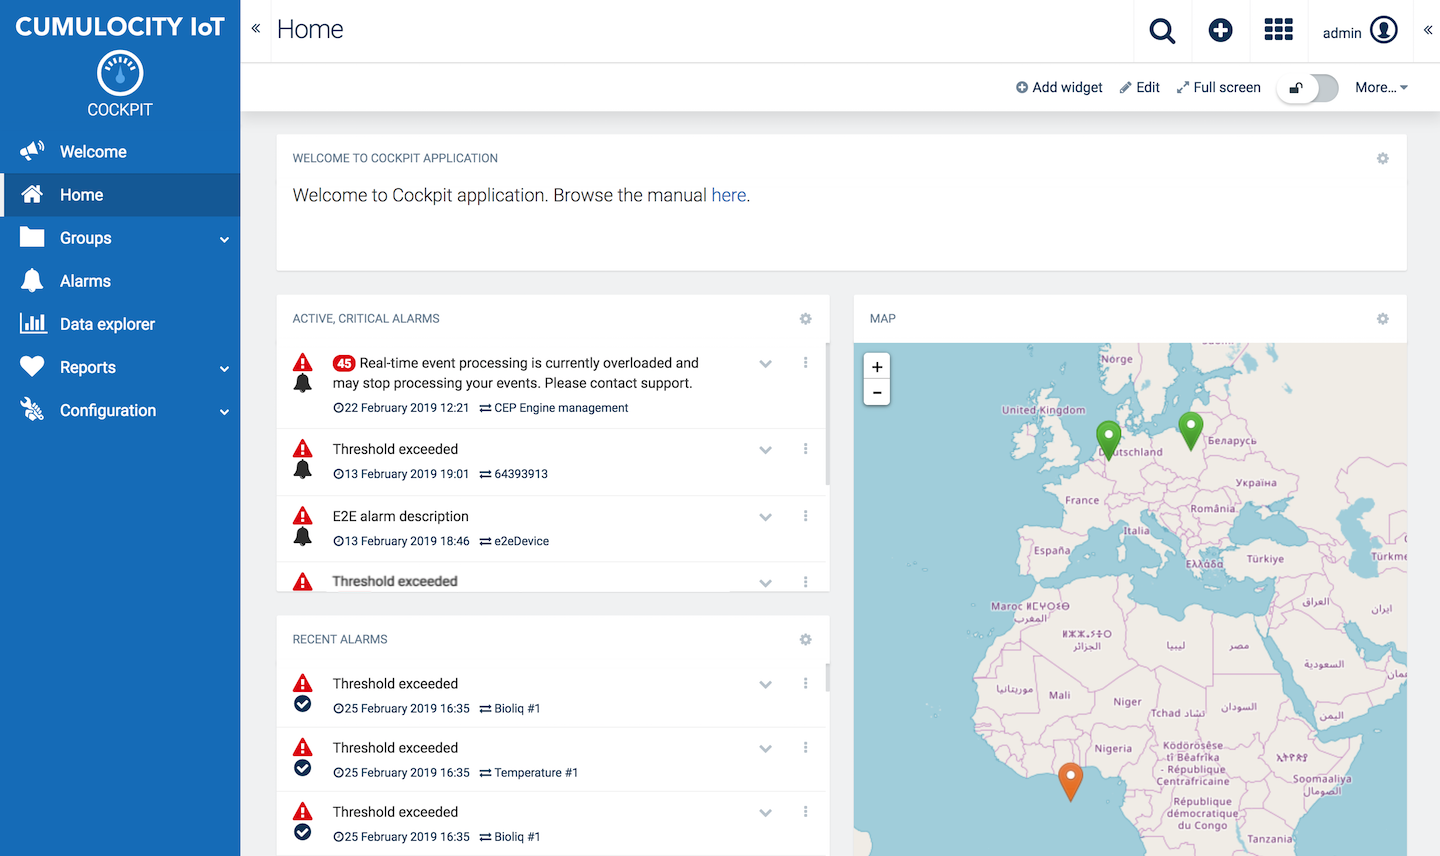
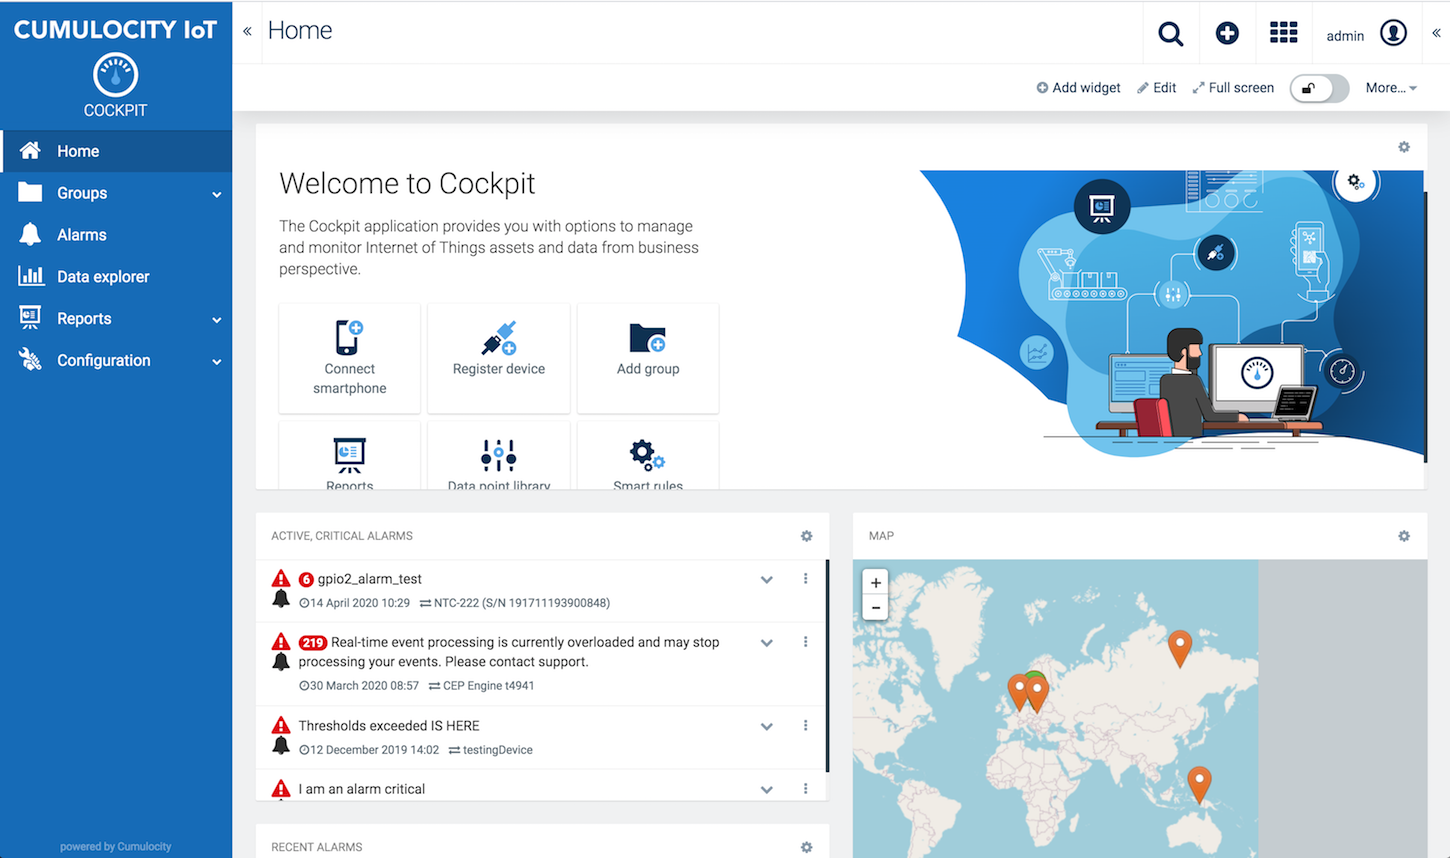
Further updates on the 10.6.6 release notes

diff --git a/content/release-notes/10-6-6-bundle/10-6-6-whatsnew.md b/content/release-notes/10-6-6-bundle/10-6-6-whatsnew.md
@@ -5,81 +5,55 @@ layout: redirect
 ---
 
 
-Cockpit	The welcome widget has been modified. The new welcome widget comes in two versions, which show different messages and quick links, based on the tenant type of the user (regular or trial tenant).	MTM-30226
+### Device Management
 
-New smartphone app and wizard
+#### Device certificates
 
-Cockpit	A new wizard is available to connect a smartphone to the platform. In the welcome widget of the Cockpit application a new quick-link card is shown: Connect smartphone. The new process is aligned with the new version of the "Cumulocity IoT Sensor App" and will not work with the old application that might be already installed on your smartphone.	MTM-30234
+[MTM-27299] Cumulocity IoT allows devices to connect via MQTT protocol using a X.509 client certificate for authentication. Each tenant individually defines whom it trusts by uploading the base CA certificate.
 
-UI	Russian is now available as a standard language.	MTM-31746
+Cumulocity IoT supports two ways to register devices which will be able to connect using certificates, auto registration or bulk registration.
 
-Sigfox	Sigfox device registration form: Hex string validation added to ID and PAC input fields.	MTM-30217
-Sigfox	On device registration, only active contracts with free slots will now be shown.	MTM-30220
-Sigfox	If a device type is generated and its name exceeds 100 characters it will be truncated to fit the 100 characters name length limit on the Sigfox platform.	MTM-29827
+A device which is connected by certificates can receive a token which can later be used to authenticate HTTP requests. 
 
-### Administration
+For details, how to manage trusted certificates through the UI, see [Device Management > Managing device data > Managing trusted certificates](/users-guide/device-management#trusted-certificates) in the User guide.
 
-[MTM-29160] It is now possible to configure sms77 as SMS provider in **Settings** > **Customization** in the  Administration application.  
+![Device credentials](/images/users-guide/device-management/devmgmt-device-credentials.png)
 
-For details, see [Administration > Changing settings](/users-guide/administration#changing-settings) in the User guide.
-
-![SMS provider settings](/images/release-notes/sms-provider-sms77.png) 
+For information on connecting devices using certificates refer to [Device integration using MQTT > Device certificates](device-sdk/mqtt#device-certificates) in the Device SDK guide. 
 
 
-### Enterprise Tenant
+### Cockpit	
 
-[MTM-29923] A cookie banner has been added to the Cumulocity IoT platform. The login page will now contain information about cookies and their purpose.
+[MTM-30226] The welcome widget has been modified. The new welcome widget comes in two versions, which show different messages and quick links, based on the tenant type of the user (regular or trial tenant).
 
-The cookie banner can be configured via the application options or via UI from the Branding page in the Administration application. 
+![Welcome widget](/images/release-notes/welcome-widget.png)
 
-For details, see [Enterprise Tenant > Customization](/users-guide/enterprise-edition#customization) in the User guide.
+For details, see [Cockpit > Overview](/users-guide/cockpit#overview) in the User guide.
 
 
-### Cockpit
+### New smartphone app and wizard
 
-[MTM-29400] To improve transparency, the display of the timestamp in data point graphs or tables when aggregation is activated has been modified: 
+[MTM-30234] A new wizard is available to connect a smartphone to the platform. In the welcome widget of the Cockpit application a new quick-link card **Connect smartphone** is shown. 
 
-* If daily aggregation is selected, the time indication will no longer be shown.
-* If hourly aggregation is selected, the minute and second indication will no longer be shown.
-* If minutely aggregation is selected, the second indication will no longer be shown.
 
-For details, see [Cockpit > Data explorer](/users-guide/cockpit#data-explorer) in the User guide.
- 
+### Device integration: Cumulocity IoT NetComm Agent
 
-### OPC UA
+A new Cumulocity IoT NetComm agent is available which 
 
-The following improvements have been implemented in the OPC UA gateway since 10.5.7.
+### Sigfox
 
-For details, see [Optional services > OPC UA](/users-guide/optional-services#opc-ua) in the User guide.  
+The following improvements have been implemented in the Sigfox agent since 10.6.0.
 
-#### Extended subscription parameters 
+For details, see [Optional services > Sigfox](/users-guide/optional-services#sigfox) in the User guide.  
 
-[MTM-29065] The subscription parameters have been extended by: 
+* [MTM-30217] Sigfox device registration form: Hex string validation has been added to the ID and PAC input fields.
+* [MTM-30220] On device registration, only active contracts with free slots will now be shown.
+* [MTM-29827] If a device type is generated and its name exceeds 100 characters it will be truncated to fit the 100 characters name length limit on the Sigfox platform.	
 
-* "queueSize" - number, queueSize > 0, no max value
-* "dataChangeTrigger" - string, radio-button with possible values: Status, StatusValue, StatusValueTimestamp
-* "discardOldest" - boolean, radio-buttons with possible labels: Discard oldest, Discard newest - where discard newest will just turn discard oldest into false. Discard oldest is the default.
+### UI
 
-#### Easier analysis of issues during the auto-apply procedure 
+[MTM-31746] Russian is now available as a standard language.	
 
-[MTM-29837] The following improvements have been added:
 
-* "c8y&#95;ua&#95;DeviceTypeApplied" event is triggered when a device type is applied to a node server.<br>
-* "c8y&#95;ua&#95;DeviceTypeUnapplied" event is triggered when a device type is removed from a node server.<br>
-* "c8y&#95;ua_command&#95;GetDeviceTypeApplicationState" operation has been added to query the state of device type applications on servers.<br>
-* "c8y&#95;ua_command&#95;TestDeviceTypeMatching" operation has been added to tell if a node (root node) matches and will be applied to a device type or not.
 
-#### Notification buffer size configuration 
-
-[MTM-30338] Notification buffer size is configured in OPC UA client which defines how many monitored item values should be buffered to receive subscription notification data from OPC UA server. Default is 100. Setting this too low could cause buffer overflow error on the client. Setting this too high wastes memory of the client. In order to decide what is a good number, following configurations should be taken into account:
-
-* Subscription reporting rate (aka publish interval)
-* Sampling rate of monitored items
- 
-Basically, the more data you got in one notification package from the server, the higher number should be set.
-
-#### Performance improvements 
-
-* [MTM-29868] Performance has been improved when using read/write operations. 
-* [MTM-30343] Enhanced performance for measurements when there is a lot of data. 
 

diff --git a/content/release-notes/10-6-6-bundle/10-6-6-migration.md b/content/release-notes/10-6-6-bundle/10-6-6-migration.md
@@ -4,3 +4,19 @@ title: Migration notes
 layout: redirect
 ---
 
+### Removal of DELETE method for audit logs
+
+As announced in the [Migration notes for release 10.5.0](https://cumulocity.com/guides/10.5.0/release-notes/10-5-0/#10-5-0-migration), deletion of audit log entries by administrators is no longer permitted. This method is deprecated and has been removed. All DELETE requests to the audit API will return the error "405 Method not allowed".
+
+Note that retention rules still apply to audit logs and will delete audit log records older than the specified retention time, see also [Auditing > Audit record collection](/reference/auditing/#audit-record-collection) in the Reference guide. 
+
+### End of Java 7 support for the Microservice SDK
+
+As announced in the [Migration notes for release 10.5.7](/release-notes/10-5-7/#10-5-7-migration), the Microservice SDK is now based on Spring Boot 2.x. In case you are still developing with Java 7 you will need to migrate your application to Java 8 if you want to take advantage of the latest Microservice SDK version. If you have to stay with Java 7 or cannot migrate to Spring Boot 2.x you can still use the Microservice SDK in version <= 10.5.7.
+
+For details on the Microservice SDK for Java, see [Microservice SDK for Java](/microservice-sdk/java/) in the Microservice SDK guide.
+
+
+### Disabled TLS 1.0 support on all public cloud instances
+
+As announced in the [Migration notes for release 10.5.7](/release-notes/10-5-7/#10-5-7-migration), Encryption based on Transport Layer Security v1.0 has been be disabled on all public Cumulocity IoT instances. As all modern browsers do already support by default more recent versions of TLS we do not expect limitations for users. Devices connecting to Cumulocity IoT might need to be updated.

diff --git a/content/release-notes/10-6-6-bundle/10-6-6-documentation.md b/content/release-notes/10-6-6-bundle/10-6-6-documentation.md
@@ -1,0 +1,25 @@
+---
+weight: 21
+title: Documentation changes
+layout: redirect
+---
+
+In addition to all enhancements or changes related to the improvements and fixes of the 10.6.6 release, the following improvements or modifications have been made in the area of documentation.
+
+### Device integration tutorials
+
+A new version of the NetComm router device integration documentation has been added to the [Device integration tutorials](/device-tutorials/tutorials-introduction). This new tutorial describes how to set up and configure the Casa Systems (NetComm) routers of the NTC-220 series using the Cumulocity IoT NetComm Agent package, see [Casa Systems (Netcomm) router](/device-tutorials/netcomm-router/).
+
+### Installation and operations guides
+
+In addition to the Installation & Operations guides already provided for previous versions, the following new guides are now available through the [Software AG Empower Portal](https://documentation.softwareag.com/):
+
+* **Connectivity** - Installation & operations guide
+* **DataHub** - Installation & operations guide
+* **OPC UA** - Installation & operations guide
+* **Sigfox** microservice - Installation & operations guide
+
+Moreover, a new document **Operations release notes** is provided which lists all improvement or fixes related to the installation or operation of the Cumulocity IoT platform.
+
+Note, that access to these documents on the Empower Portal requires credentials.
+

diff --git a/content/users-guide/cockpit-bundle/overview.md b/content/users-guide/cockpit-bundle/overview.md
@@ -65,7 +65,7 @@ If you want to learn more about general aspects of the Cumulocity IoT platform a
 
 The Home screen of the Cockpit application is a dashboard which shows data for the general tenant.
 
-![image alt text](/images/users-guide/cockpit/cockpit-home-screen.png)
+![Home dashboard](/images/users-guide/cockpit/cockpit-home-screen.png)
 
 The data shown on the Home dashboard is shared by all users of the tenant. By default, the Home dashboard includes a welcome message, the active critical alarms, recent alarms and a map of all objects.
 

diff --git a/content/release-notes/10-6-0-bundle/10-6-0-documentation.md b/content/release-notes/10-6-0-bundle/10-6-0-documentation.md
@@ -4,7 +4,7 @@ title: Documentation changes
 layout: redirect
 ---
 
-In addition to all enhancements or changes related to the improvements and fixes of the 10.5.7 release, the following improvements or modifications have been made in the area of documentation.
+In addition to all enhancements or changes related to the improvements and fixes of the 10.6.0 release, the following improvements or modifications have been made in the area of documentation.
 
 ### Device integration tutorials
 
